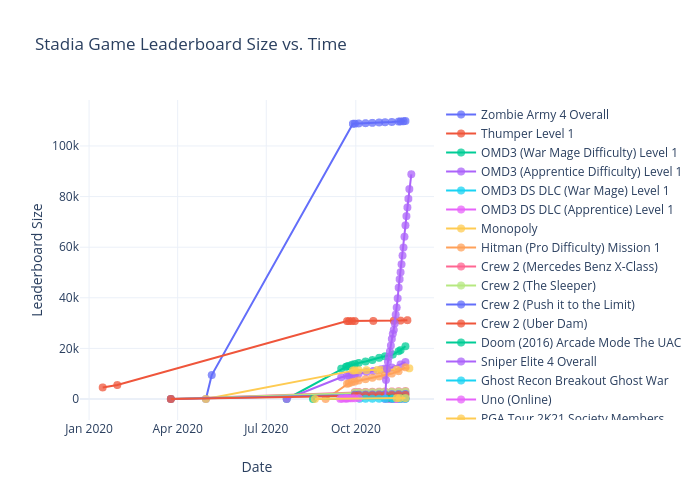
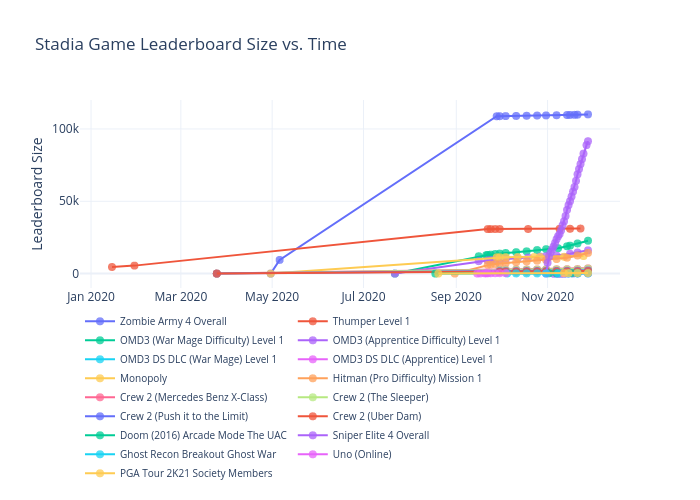
Add files via upload
Nov 28 data

diff --git a/leaderboards/figure.js b/leaderboards/figure.js
@@ -70,6 +70,7 @@ var figure = {
                 "2020-11-24",
                 "2020-11-25",
                 "2020-11-27",
+                "2020-11-28",
                 "2020-11-30",
                 "2020-12-05"
             ],
@@ -127,7 +128,13 @@ var figure = {
                 "",
                 "109765",
                 "",
-                "109871"
+                "109871",
+                null,
+                null,
+                null,
+                null,
+                null,
+                "110078"
             ],
             "marker": {
                 "size": 8,
@@ -206,6 +213,7 @@ var figure = {
                 "2020-11-24",
                 "2020-11-25",
                 "2020-11-27",
+                "2020-11-28",
                 "2020-11-30",
                 "2020-12-05"
             ],
@@ -344,6 +352,7 @@ var figure = {
                 "2020-11-24",
                 "2020-11-25",
                 "2020-11-27",
+                "2020-11-28",
                 "2020-11-30",
                 "2020-12-05"
             ],
@@ -401,7 +410,13 @@ var figure = {
                 "",
                 "",
                 "",
-                "20841"
+                "20841",
+                null,
+                null,
+                null,
+                null,
+                null,
+                "22744"
             ],
             "marker": {
                 "size": 8,
@@ -480,6 +495,7 @@ var figure = {
                 "2020-11-24",
                 "2020-11-25",
                 "2020-11-27",
+                "2020-11-28",
                 "2020-11-30",
                 "2020-12-05"
             ],
@@ -537,7 +553,13 @@ var figure = {
                 "",
                 "",
                 "",
-                "14613"
+                "14613",
+                null,
+                null,
+                null,
+                null,
+                null,
+                "16076"
             ],
             "marker": {
                 "size": 8,
@@ -616,6 +638,7 @@ var figure = {
                 "2020-11-24",
                 "2020-11-25",
                 "2020-11-27",
+                "2020-11-28",
                 "2020-11-30",
                 "2020-12-05"
             ],
@@ -673,7 +696,13 @@ var figure = {
                 "151",
                 "",
                 "",
-                "167"
+                "167",
+                null,
+                null,
+                null,
+                null,
+                null,
+                "200"
             ],
             "marker": {
                 "size": 8,
@@ -752,6 +781,7 @@ var figure = {
                 "2020-11-24",
                 "2020-11-25",
                 "2020-11-27",
+                "2020-11-28",
                 "2020-11-30",
                 "2020-12-05"
             ],
@@ -809,7 +839,13 @@ var figure = {
                 "134",
                 "",
                 "",
-                "143"
+                "143",
+                null,
+                null,
+                null,
+                null,
+                null,
+                "167"
             ],
             "marker": {
                 "size": 8,
@@ -888,6 +924,7 @@ var figure = {
                 "2020-11-24",
                 "2020-11-25",
                 "2020-11-27",
+                "2020-11-28",
                 "2020-11-30",
                 "2020-12-05"
             ],
@@ -1028,6 +1065,7 @@ var figure = {
                 "2020-11-24",
                 "2020-11-25",
                 "2020-11-27",
+                "2020-11-28",
                 "2020-11-30",
                 "2020-12-05"
             ],
@@ -1085,7 +1123,13 @@ var figure = {
                 "",
                 "",
                 "",
-                "12502"
+                "12502",
+                null,
+                null,
+                null,
+                null,
+                null,
+                "14299"
             ],
             "marker": {
                 "size": 8,
@@ -1164,6 +1208,7 @@ var figure = {
                 "2020-11-24",
                 "2020-11-25",
                 "2020-11-27",
+                "2020-11-28",
                 "2020-11-30",
                 "2020-12-05"
             ],
@@ -1221,7 +1266,13 @@ var figure = {
                 "",
                 "",
                 "",
-                "3149"
+                "3149",
+                null,
+                null,
+                null,
+                null,
+                null,
+                "3635"
             ],
             "marker": {
                 "size": 8,
@@ -1300,6 +1351,7 @@ var figure = {
                 "2020-11-24",
                 "2020-11-25",
                 "2020-11-27",
+                "2020-11-28",
                 "2020-11-30",
                 "2020-12-05"
             ],
@@ -1357,7 +1409,13 @@ var figure = {
                 "",
                 "",
                 "",
-                "2958"
+                "2958",
+                null,
+                null,
+                null,
+                null,
+                null,
+                "3433"
             ],
             "marker": {
                 "size": 8,
@@ -1436,6 +1494,7 @@ var figure = {
                 "2020-11-24",
                 "2020-11-25",
                 "2020-11-27",
+                "2020-11-28",
                 "2020-11-30",
                 "2020-12-05"
             ],
@@ -1493,7 +1552,13 @@ var figure = {
                 "",
                 "",
                 "",
-                "1985"
+                "1985",
+                null,
+                null,
+                null,
+                null,
+                null,
+                "2243"
             ],
             "marker": {
                 "size": 8,
@@ -1572,6 +1637,7 @@ var figure = {
                 "2020-11-24",
                 "2020-11-25",
                 "2020-11-27",
+                "2020-11-28",
                 "2020-11-30",
                 "2020-12-05"
             ],
@@ -1629,7 +1695,13 @@ var figure = {
                 "",
                 "",
                 "",
-                "1588"
+                "1588",
+                null,
+                null,
+                null,
+                null,
+                null,
+                "1761"
             ],
             "marker": {
                 "size": 8,
@@ -1708,6 +1780,7 @@ var figure = {
                 "2020-11-24",
                 "2020-11-25",
                 "2020-11-27",
+                "2020-11-28",
                 "2020-11-30",
                 "2020-12-05"
             ],
@@ -1844,6 +1917,7 @@ var figure = {
                 "2020-11-24",
                 "2020-11-25",
                 "2020-11-27",
+                "2020-11-28",
                 "2020-11-30",
                 "2020-12-05"
             ],
@@ -1906,7 +1980,8 @@ var figure = {
                 "75716",
                 "79147",
                 "82972",
-                "88822"
+                "88822",
+                "91520"
             ],
             "marker": {
                 "size": 8,
@@ -1985,6 +2060,7 @@ var figure = {
                 "2020-11-24",
                 "2020-11-25",
                 "2020-11-27",
+                "2020-11-28",
                 "2020-11-30",
                 "2020-12-05"
             ],
@@ -2042,6 +2118,12 @@ var figure = {
                 "",
                 "",
                 "",
+                "126",
+                null,
+                null,
+                null,
+                null,
+                null,
                 "126"
             ],
             "marker": {
@@ -2121,6 +2203,7 @@ var figure = {
                 "2020-11-24",
                 "2020-11-25",
                 "2020-11-27",
+                "2020-11-28",
                 "2020-11-30",
                 "2020-12-05"
             ],
@@ -2227,6 +2310,7 @@ var figure = {
                 "2020-11-24",
                 "2020-11-25",
                 "2020-11-27",
+                "2020-11-28",
                 "2020-11-30",
                 "2020-12-05"
             ],
@@ -2284,7 +2368,13 @@ var figure = {
                 "",
                 "",
                 "",
-                "360"
+                "360",
+                null,
+                null,
+                null,
+                null,
+                null,
+                "387"
             ],
             "marker": {
                 "size": 8,
@@ -2301,19 +2391,19 @@ var figure = {
         "xaxis": {
             "type": "date",
             "range": [
-                "2019-12-25 11:44:49.6279",
-                "2020-12-17 12:15:10.3721"
+                "2019-12-26 01:43:03.28",
+                "2020-12-17 22:16:56.72"
             ],
             "title": {
-                "text": "Date"
+                "text": ""
             },
             "autorange": true
         },
         "yaxis": {
             "type": "linear",
             "range": [
-                -13103.880733944956,
-                122974.88073394496
+                -7823.192125104719,
+                117901.19212510472
             ],
             "title": {
                 "text": "Leaderboard Size"
@@ -2321,7 +2411,13 @@ var figure = {
             "autorange": true
         },
         "legend": {
-            "borderwidth": 0
+            "x": 0,
+            "y": -0.1,
+            "font": {
+                "size": 10
+            },
+            "borderwidth": 0,
+            "orientation": "h"
         },
         "autosize": true,
         "template": {
